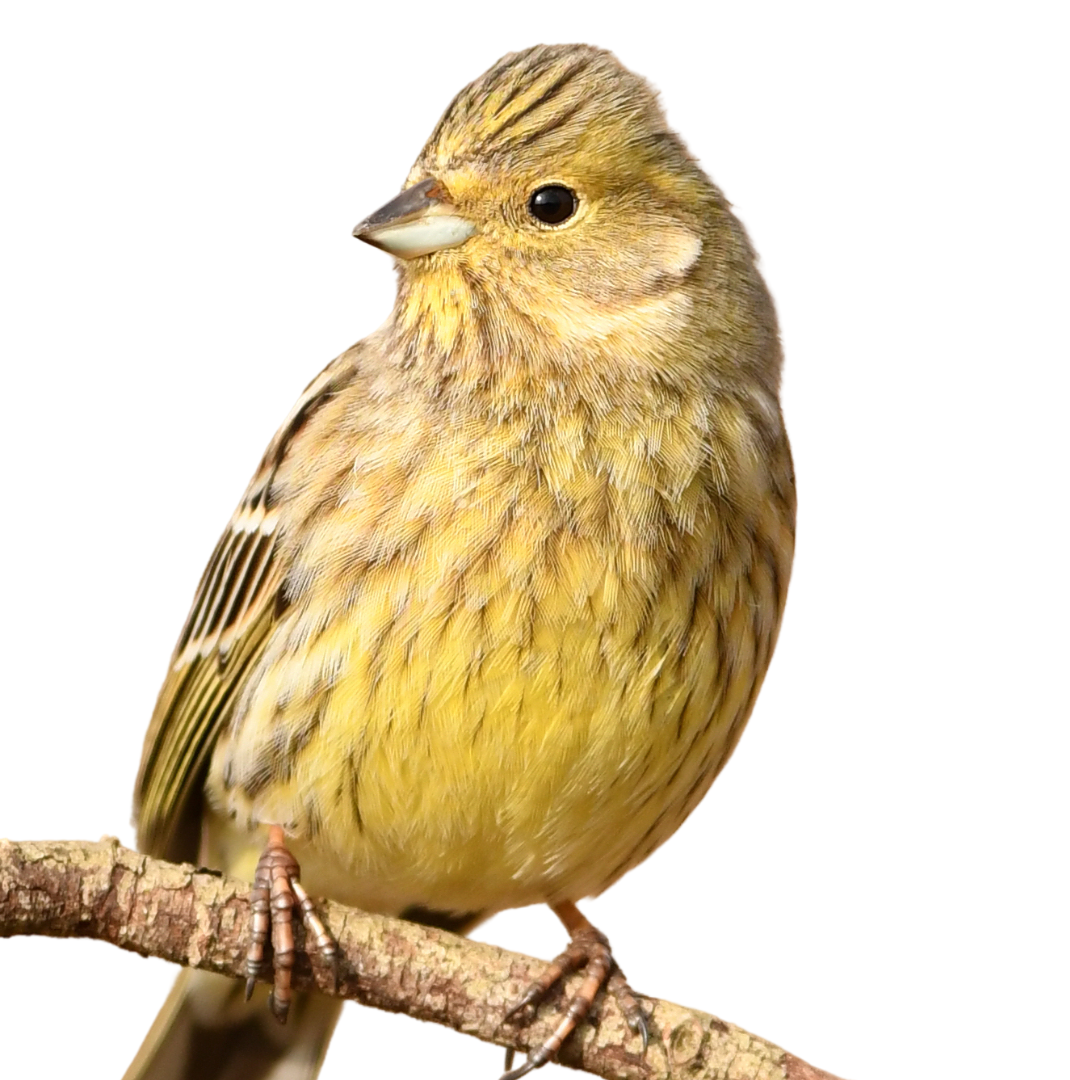
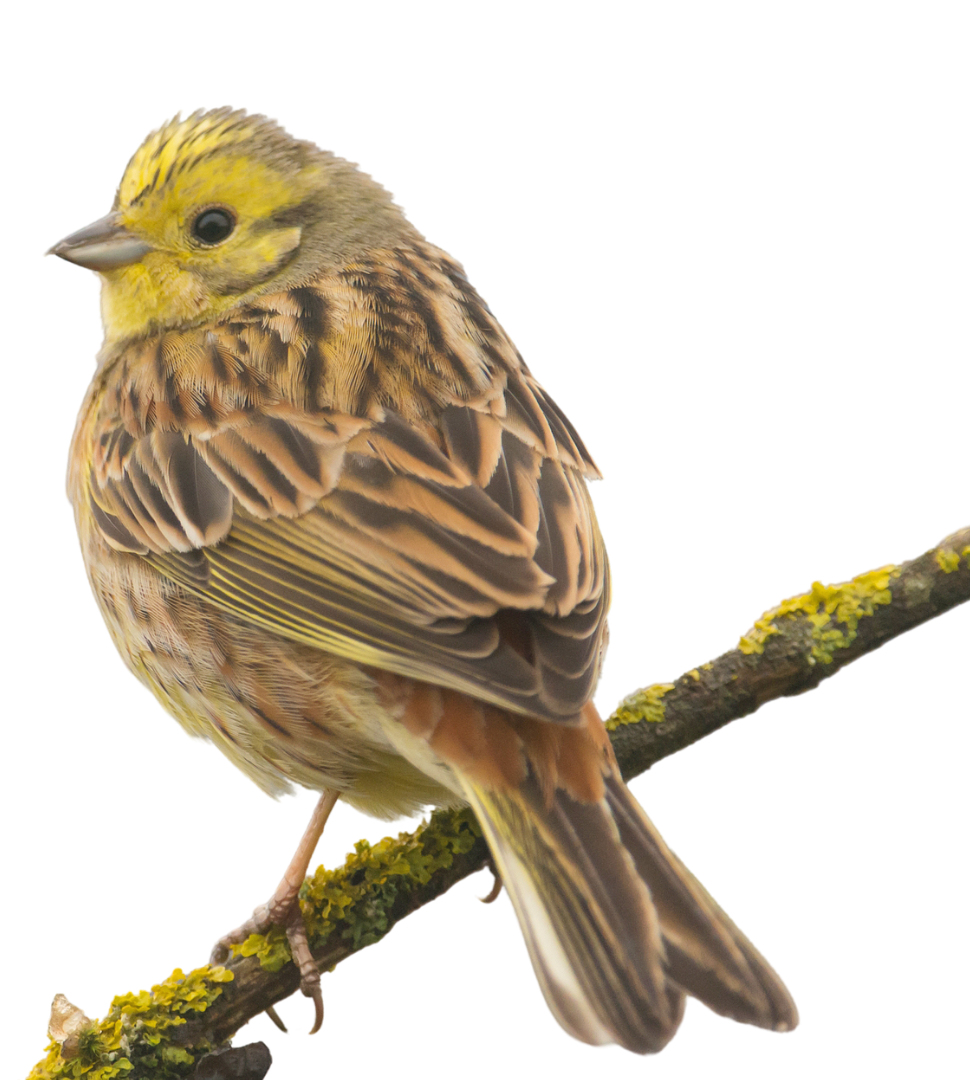
Bring the framed bird photo back to the About hero
Home's hero now uses the video, freeing up the original static
yellowhammer_hero.png image — cropped and reused as the About
hero's framed photo (same two-column layout as Services/Portfolio,
same 744px rendered height).

diff --git a/app/about/page.module.css b/app/about/page.module.css
@@ -25,9 +25,17 @@
   max-width: 1200px;
   margin: 0 auto;
   width: 100%;
+  display: grid;
+  grid-template-columns: 1.1fr 1fr;
+  gap: 3rem;
+  align-items: center;
 }
 
-.aboutHeroInner :global(.section-label) {
+.aboutHeroText {
+  max-width: 580px;
+}
+
+.aboutHeroText :global(.section-label) {
   animation: aboutFadeUp 0.7s ease-out 0.1s both;
 }
 
@@ -53,6 +61,23 @@
   animation: aboutFadeUp 0.7s ease-out 0.36s both;
 }
 
+.aboutHeroImageWrap {
+  display: flex;
+  justify-content: center;
+  animation: aboutFadeUp 0.8s ease-out 0.3s both;
+}
+
+.aboutHeroImage {
+  width: 100%;
+  max-width: 340px;
+  aspect-ratio: 1 / 1;
+  object-fit: cover;
+  object-position: center 15%;
+  border-radius: 10px;
+  border: 6px solid var(--paper);
+  box-shadow: 0 30px 70px -18px rgba(43, 26, 13, 0.5);
+}
+
 .sectionWave {
   position: absolute;
   left: 0;
@@ -62,9 +87,22 @@
   line-height: 0;
 }
 
+@media (max-width: 900px) {
+  .aboutHeroInner {
+    grid-template-columns: 1fr;
+    gap: 2.5rem;
+  }
+  .aboutHeroImageWrap {
+    order: -1;
+  }
+  .aboutHeroImage {
+    max-width: 260px;
+  }
+}
+
 @media (max-width: 700px) {
   .aboutHero {
-    padding: 8rem 1.5rem 3.5rem;
+    padding: 8rem 1.5rem 4rem;
     min-height: auto;
   }
 }

diff --git a/app/about/page.tsx b/app/about/page.tsx
@@ -15,15 +15,25 @@ export default function About() {
     <>
       <section className={styles.aboutHero}>
         <div className={styles.aboutHeroInner}>
-          <p className="section-label">The Studio</p>
-          <h1 className={styles.aboutHeroH1}>
-            The Studio Behind
-            <br />
-            <em>the Work</em>
-          </h1>
-          <p className={styles.aboutHeroTagline}>
-            Two designers. Two cities. One vision.
-          </p>
+          <div className={styles.aboutHeroText}>
+            <p className="section-label">The Studio</p>
+            <h1 className={styles.aboutHeroH1}>
+              The Studio Behind
+              <br />
+              <em>the Work</em>
+            </h1>
+            <p className={styles.aboutHeroTagline}>
+              Two designers. Two cities. One vision.
+            </p>
+          </div>
+          <div className={styles.aboutHeroImageWrap}>
+            <img
+              src="/about_hero_bird.png"
+              alt=""
+              aria-hidden="true"
+              className={styles.aboutHeroImage}
+            />
+          </div>
         </div>
       </section>
 
